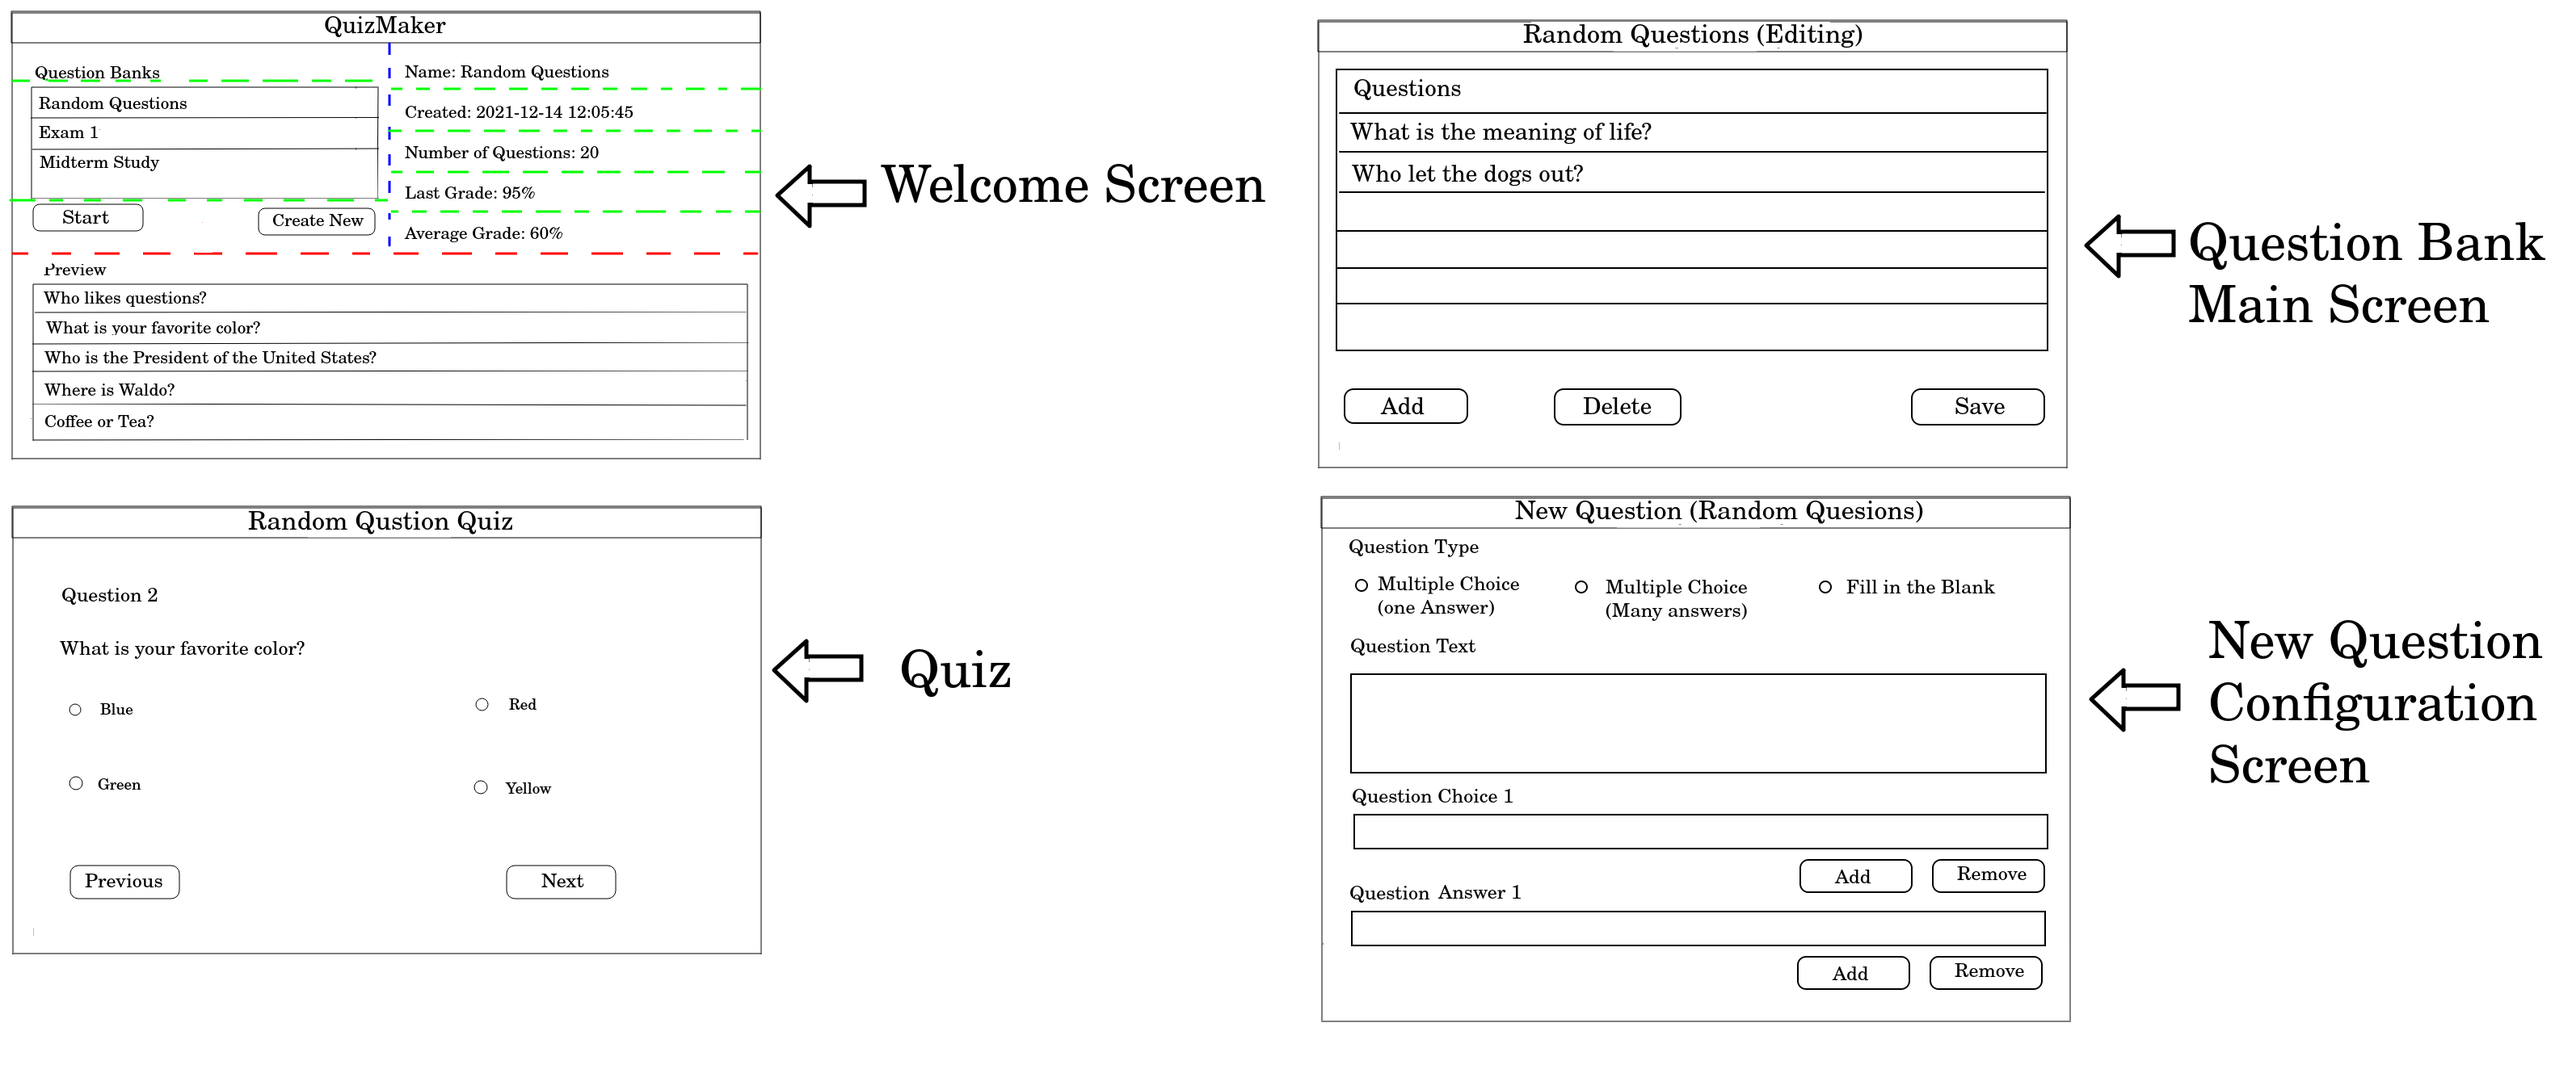
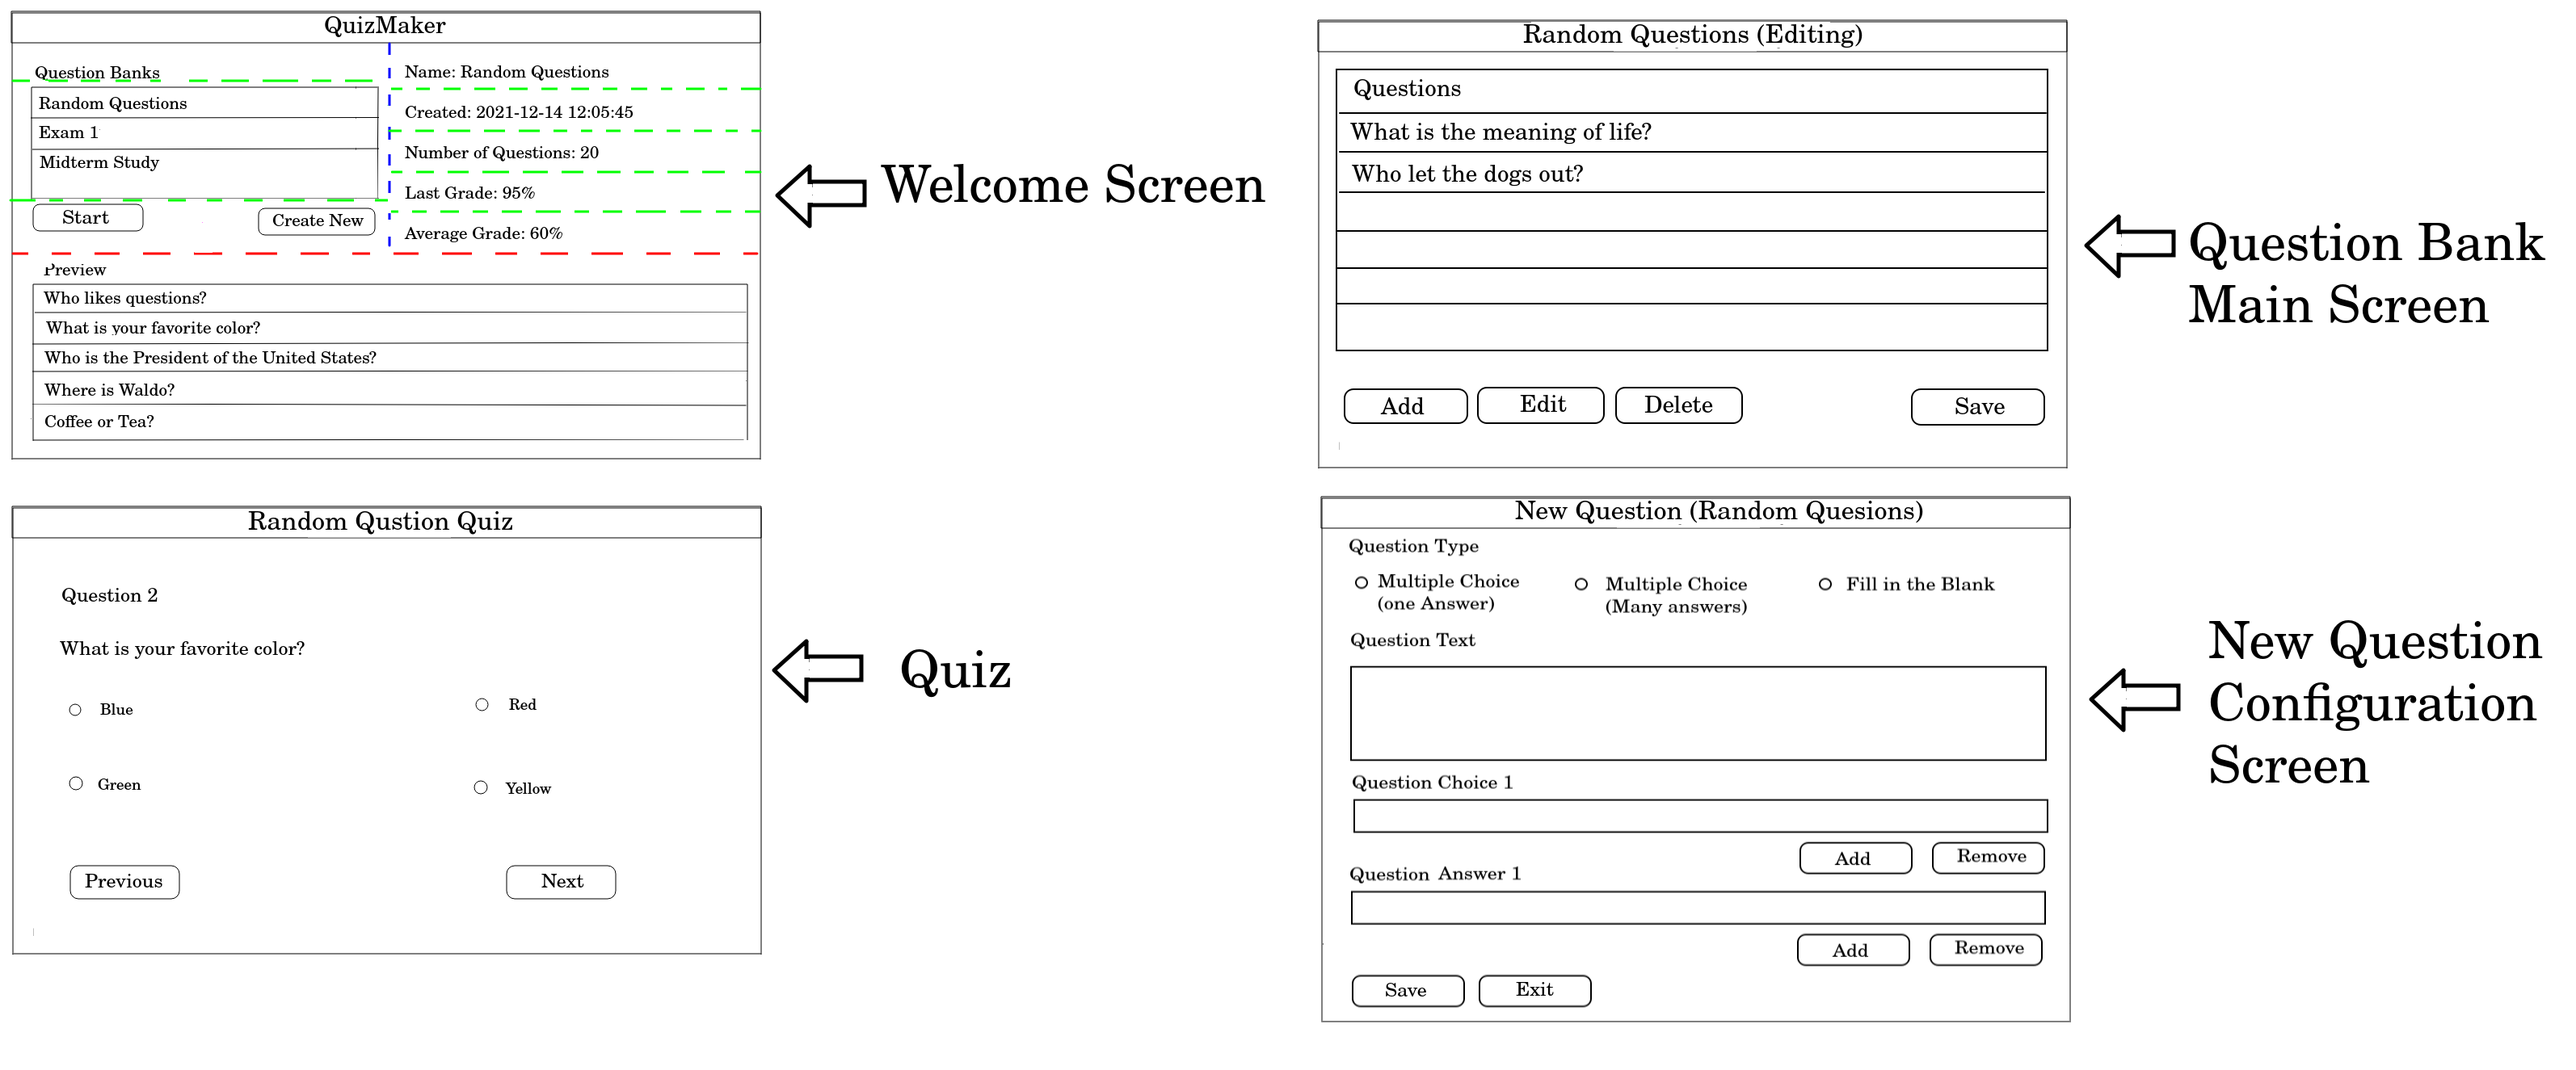
created screen for adding new question to question set - added components to new question screen

diff --git a/src/QuizGui.java b/src/QuizGui.java
@@ -97,6 +97,62 @@ public class QuizGui extends JFrame implements ActionListener, MouseListener {
 
 	// END EDIT PANEL COMPONENTS
 
+	// START NEW QUESTION PANEL COMPONENTS
+
+	private JPanel newQuestionPaneView = new JPanel();
+
+	private JScrollPane newQuestionPane = new JScrollPane(newQuestionPaneView);
+
+	// Question type panel
+	private JPanel newQuestionQTypeLabelPanel = new JPanel();
+	private JLabel newQuestionQTypeLabel = new JLabel("Question Type");
+
+	private JPanel newQuestionQTypeSelPanel = new JPanel();
+	private JRadioButton multiChoiceOneAns = new JRadioButton();
+	private JLabel multiChoiceOneAnsLabel = new JLabel("Multiple Choice");
+	private JRadioButton multiChoiceMultiAns = new JRadioButton();
+	private JLabel multiChoiceMultiAnsLabel = new JLabel("Multiple Choice");
+	private JRadioButton fillInBlank = new JRadioButton();
+	private JLabel fillInBlankLabel = new JLabel("Fill in the Blank");
+
+	private ButtonGroup qTypeButtonGroup = new ButtonGroup();
+
+	// Question text panel
+	private JPanel newQuestionQTextLabelPanel = new JPanel();
+	private JLabel newQuestionQTextLabel = new JLabel("Question Text");
+
+	private JPanel newQuestionQTextPanel = new JPanel();
+	private JTextArea newQuestionQText = new JTextArea();
+
+	// Question choice panel
+	private JPanel newQuestionQChoiceLabelPanel = new JPanel();
+	private JLabel newQuestionQChoiceLabel = new JLabel("Question Choice 1");
+
+	private JPanel newQuestionQChoicePanel = new JPanel();
+	private JTextField newQuestionQChoice = new JTextField();
+
+	private JPanel newQuestionQChoiceButtonPanel = new JPanel();
+	private JButton newQuestionQChoiceAddButton = new JButton("Add");
+	private JButton newQuestionQChoiceRemButton = new JButton("Remove");
+
+	// Question answer panel
+	private JPanel newQuestionQAnsLabelPanel = new JPanel();
+	private JLabel newQuestionQAnsLabel = new JLabel("Question Answer 1");
+
+	private JPanel newQuestionQAnsPanel = new JPanel();
+	private JTextField newQuestionQAns = new JTextField();
+
+	private JPanel newQuestionQAnsButtonPanel = new JPanel();
+	private JButton newQuestionQAnsAddButton = new JButton("Add");
+	private JButton newQuestionQAnsRemButton = new JButton("Remove");
+
+	// Question Save button panel
+	private JPanel newQuestionQSavePanel = new JPanel();
+	private JButton newQuestionQSaveButton = new JButton("Save");
+	private JButton newQuestionQExitButton = new JButton("Exit");
+
+	// END NEW QUESTION PANEL COMPONENTS
+
 	QuizGui() {
 
 		// JFrame configuration
@@ -232,10 +288,104 @@ public class QuizGui extends JFrame implements ActionListener, MouseListener {
 
 		// END EDIT PANEL CONFIGURATION
 
+		// START NEW QUESTION PANEL CONFIGURATION
+
+		// set layouts
+
+		newQuestionQTypeLabelPanel.setLayout(new BoxLayout(newQuestionQTypeLabelPanel,
+											 BoxLayout.LINE_AXIS));
+		
+		newQuestionQTypeSelPanel.setLayout(new BoxLayout(newQuestionQTypeSelPanel,
+											BoxLayout.LINE_AXIS));
+
+		newQuestionQTextLabelPanel.setLayout(new BoxLayout(newQuestionQTextLabelPanel,
+											 BoxLayout.LINE_AXIS));
+
+		newQuestionQTextPanel.setLayout(new BoxLayout(newQuestionQTextPanel,
+										BoxLayout.PAGE_AXIS));
+
+		newQuestionQChoiceLabelPanel.setLayout(new BoxLayout(newQuestionQChoiceLabelPanel,
+												BoxLayout.LINE_AXIS));
+
+		newQuestionQChoicePanel.setLayout(new BoxLayout(newQuestionQChoicePanel,
+											BoxLayout.PAGE_AXIS));
+
+		newQuestionQChoiceButtonPanel.setLayout(new BoxLayout(newQuestionQChoiceButtonPanel,
+												BoxLayout.LINE_AXIS));
+
+		newQuestionQAnsLabelPanel.setLayout(new BoxLayout(newQuestionQAnsLabelPanel,
+												BoxLayout.LINE_AXIS));
+
+		newQuestionQAnsPanel.setLayout(new BoxLayout(newQuestionQAnsPanel,
+											BoxLayout.PAGE_AXIS));
+
+		newQuestionQAnsButtonPanel.setLayout(new BoxLayout(newQuestionQAnsButtonPanel,
+												BoxLayout.LINE_AXIS));
+
+		newQuestionQSavePanel.setLayout(new BoxLayout(newQuestionQSavePanel,
+										BoxLayout.LINE_AXIS));
+
+		newQuestionPaneView.setLayout(new BoxLayout(newQuestionPaneView, BoxLayout.PAGE_AXIS));
+
+		// add components
+
+		newQuestionQTypeLabelPanel.add(newQuestionQTypeLabel);
+
+		qTypeButtonGroup.add(multiChoiceOneAns);
+		qTypeButtonGroup.add(multiChoiceMultiAns);
+		qTypeButtonGroup.add(fillInBlank);
+
+		newQuestionQTypeSelPanel.add(multiChoiceOneAns);
+		newQuestionQTypeSelPanel.add(multiChoiceOneAnsLabel);
+		newQuestionQTypeSelPanel.add(multiChoiceMultiAns);
+		newQuestionQTypeSelPanel.add(multiChoiceMultiAnsLabel);
+		newQuestionQTypeSelPanel.add(fillInBlank);
+		newQuestionQTypeSelPanel.add(fillInBlankLabel);
+
+		newQuestionQTextLabelPanel.add(newQuestionQTextLabel);
+
+		newQuestionQTextPanel.add(newQuestionQText);
+
+		newQuestionQChoiceLabelPanel.add(newQuestionQChoiceLabel);
+
+		newQuestionQChoicePanel.add(newQuestionQChoice);
+
+		newQuestionQChoiceButtonPanel.add(newQuestionQChoiceAddButton);
+		newQuestionQChoiceButtonPanel.add(newQuestionQChoiceRemButton);
+
+		newQuestionQAnsLabelPanel.add(newQuestionQAnsLabel);
+
+		newQuestionQAnsPanel.add(newQuestionQAns);
+
+		newQuestionQAnsButtonPanel.add(newQuestionQAnsAddButton);
+		newQuestionQAnsButtonPanel.add(newQuestionQAnsRemButton);
+
+		newQuestionQSavePanel.add(newQuestionQSaveButton);
+		newQuestionQSavePanel.add(newQuestionQExitButton);
+
+		newQuestionPaneView.add(newQuestionQTypeLabelPanel);
+		newQuestionPaneView.add(newQuestionQTypeSelPanel);
+		newQuestionPaneView.add(newQuestionQTextLabelPanel);
+		newQuestionPaneView.add(newQuestionQTextPanel);
+		newQuestionPaneView.add(newQuestionQChoiceLabelPanel);
+		newQuestionPaneView.add(newQuestionQChoicePanel);
+		newQuestionPaneView.add(newQuestionQChoiceButtonPanel);
+		newQuestionPaneView.add(newQuestionQAnsLabelPanel);
+		newQuestionPaneView.add(newQuestionQAnsPanel);
+		newQuestionPaneView.add(newQuestionQAnsButtonPanel);
+		newQuestionPaneView.add(newQuestionQSavePanel);
+
+		// END NEW QUESTION PANEL CONFIGURATION
+
 		mainPanel.setPreferredSize(new Dimension(500, 400));
 		mainPanel.setMaximumSize(new Dimension(500, 400));
 		containerPanel.add(mainPanel, "main");
 		containerPanel.add(editPanel, "edit");
+
+		newQuestionPane.setPreferredSize(new Dimension(525, 400));
+		newQuestionPane.setMaximumSize(new Dimension(525, 400));
+		containerPanel.add(newQuestionPane, "newQuestion");
+
 		
 		add(containerPanel);
 
@@ -336,6 +486,11 @@ public class QuizGui extends JFrame implements ActionListener, MouseListener {
 				if(((JButton) source).getText().equals("Add")) {
 
 					System.out.println("Edit Panel Add Button Pressed");
+
+					CardLayout cl = (CardLayout) containerPanel.getLayout();
+					currentlyShownPanel = "newQuestion";
+					cl.show(containerPanel, currentlyShownPanel);
+					setTitle(selectedSet.getName() + " New Question");
 
 				}else if(((JButton) source).getText().equals("Edit")) {
 
